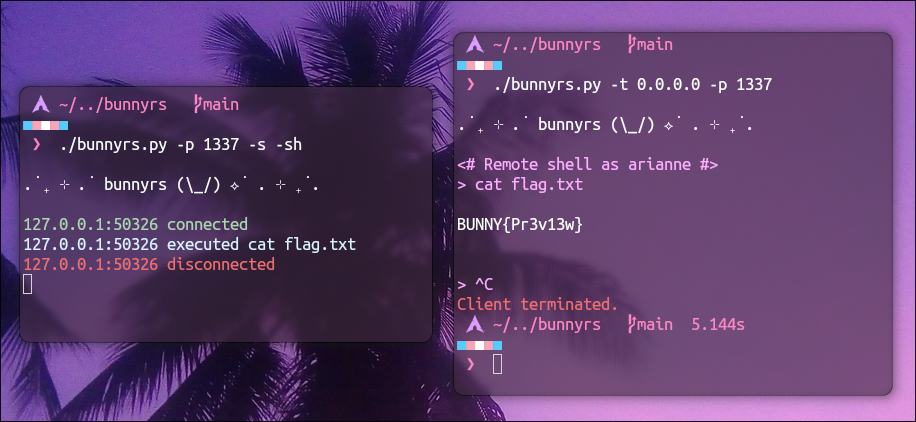
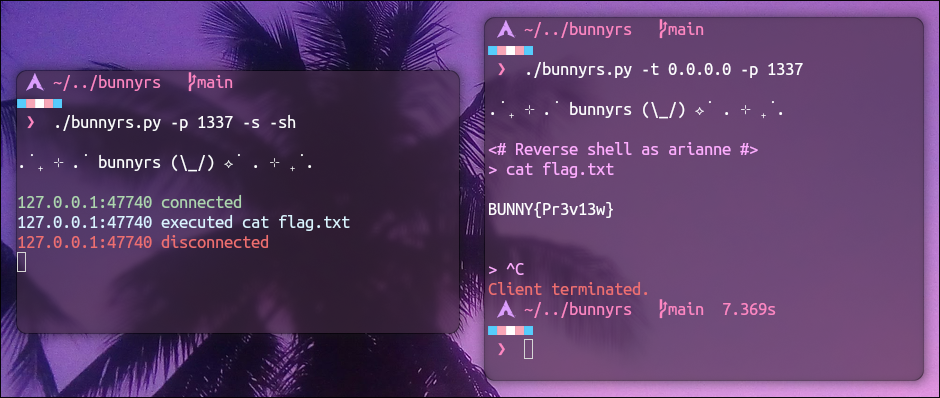
fixed wrong word

Changed region(s): [[0.0, 0.0, 1.0, 1.0], [0.5808, 0.2412, 0.7948, 0.3317], [0.3057, 0.4221, 0.3362, 0.4523]]

diff --git a/bunnyrs.py b/bunnyrs.py
@@ -255,7 +255,7 @@ class BunnyrsServer:
         Handle the Reverse Shell server mode:
             Reverse shell available to connected clients.
         """
-        client_socket.send(f"<# Remote shell as {self.running_from_user} #> ".encode())
+        client_socket.send(f"<# Reverse shell as {self.running_from_user} #> ".encode())
 
         while not self.shutdown_event.is_set():
             command = recv(client_socket, 64)
